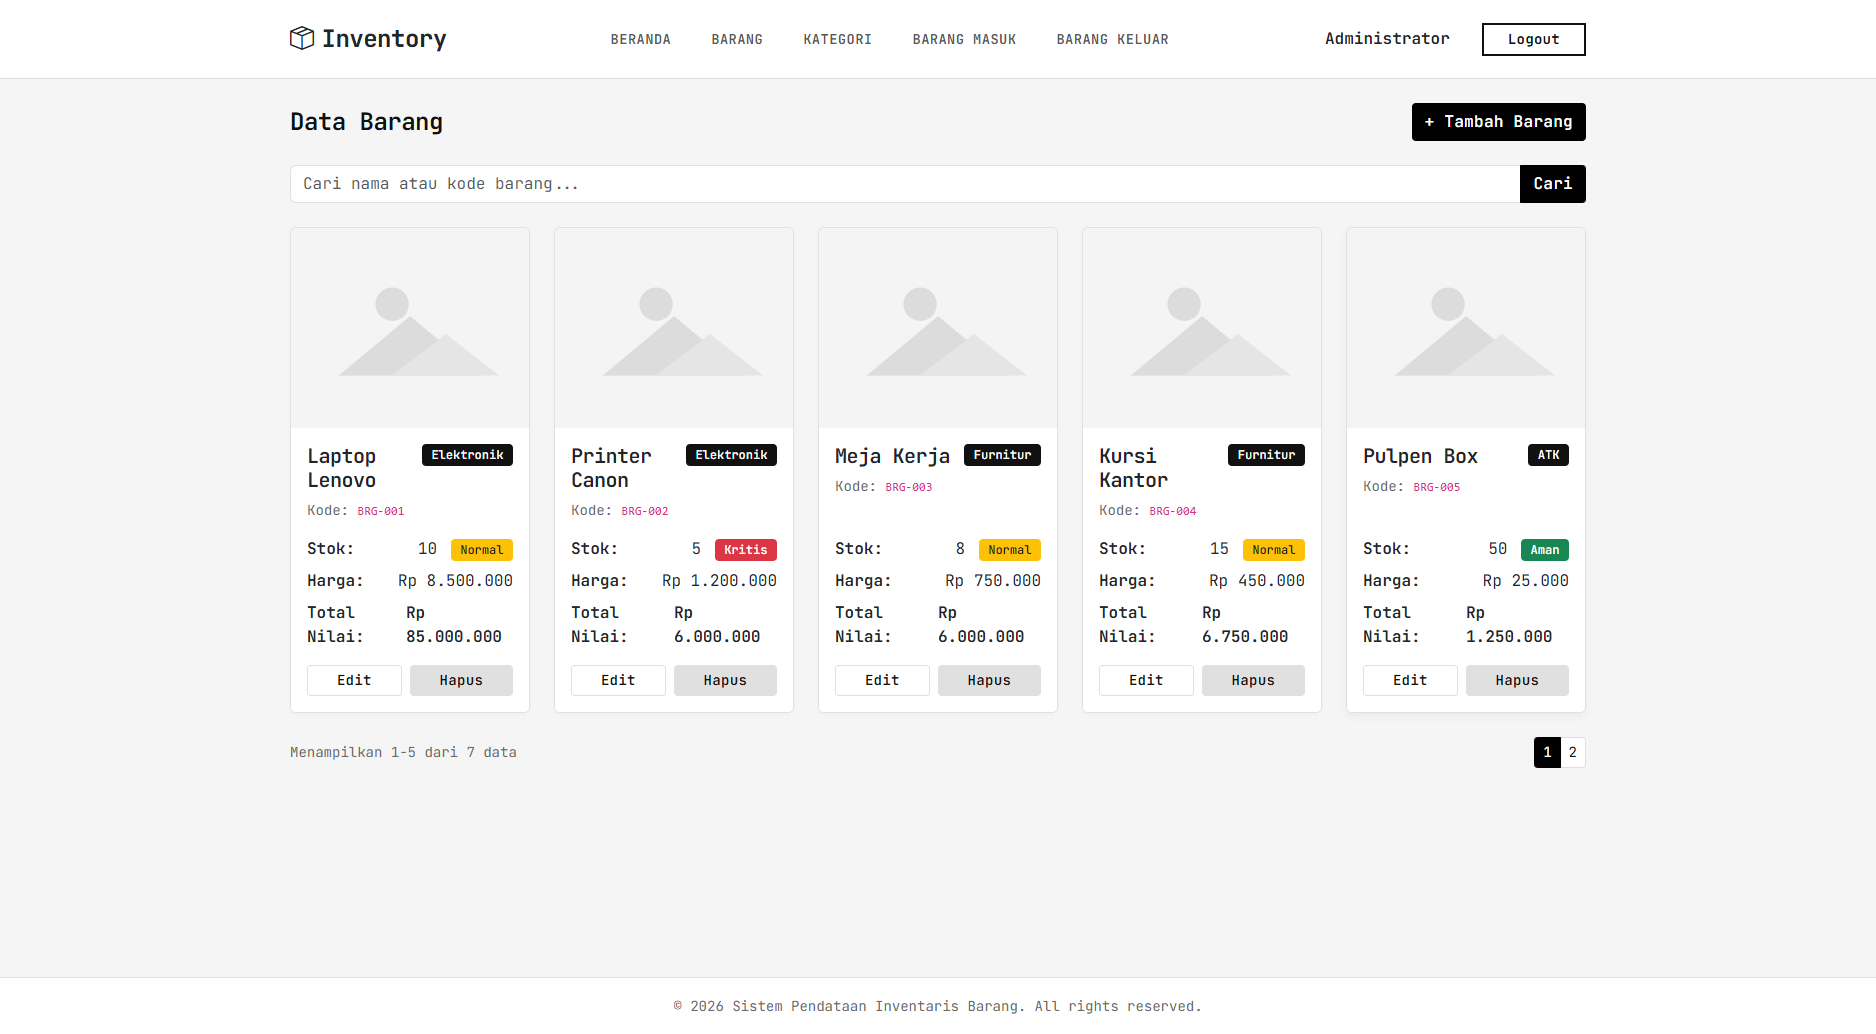
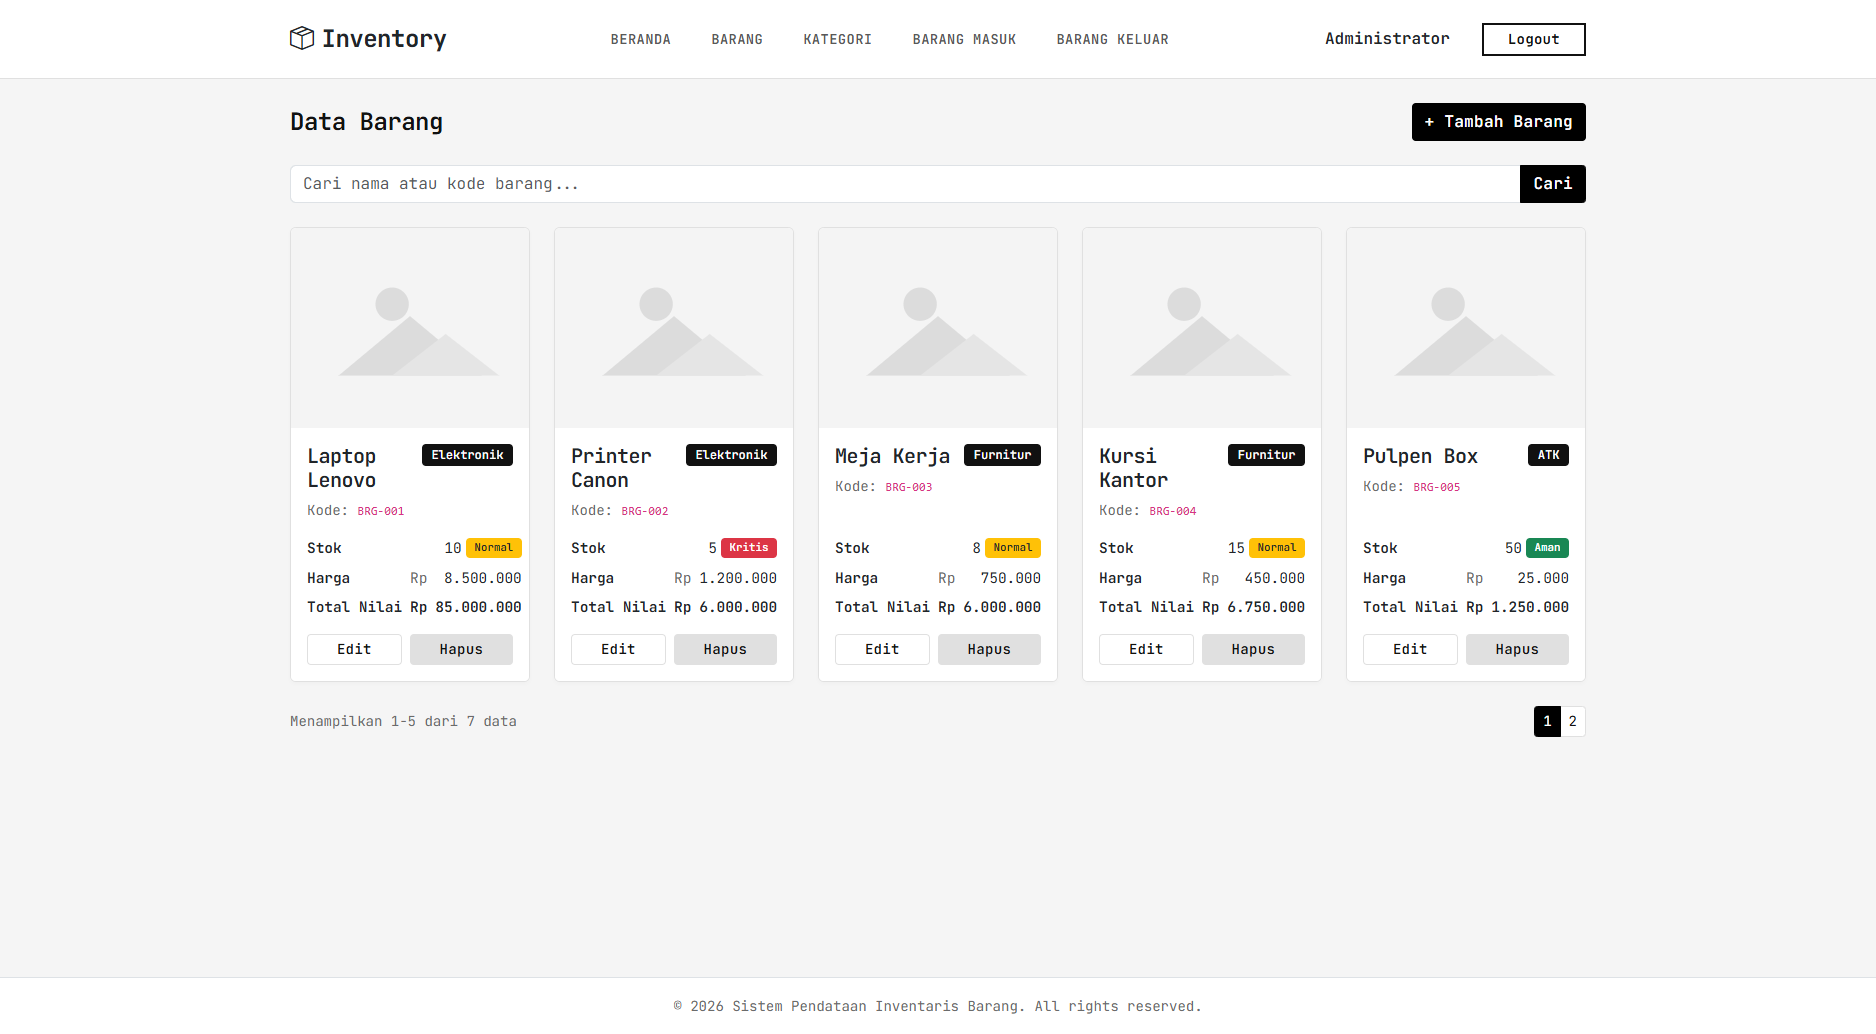
merapikan card

Changed region(s): [[0.5874, 0.5261, 0.8348, 0.7427], [0.3092, 0.5261, 0.5565, 0.6809], [0.1546, 0.5261, 0.2783, 0.7427]]

diff --git a/pages/barang/index.php b/pages/barang/index.php
@@ -103,26 +103,29 @@ $error   = htmlspecialchars($_GET['error'] ?? '');
                         </div>
                         <p class="card-text text-muted small mb-3">Kode: <code><?= htmlspecialchars($row['kode_barang']) ?></code></p>
                         
-                        <div class="mt-auto">
-                            <div class="d-flex justify-content-between align-items-center mb-2">
-                                <span class="fw-semibold">Stok:</span>
-                                <span><?= htmlspecialchars($row['stok']) ?>
-                                    <?php
-                                        $status_color = 'bg-success';
-                                        if ($row['status_stok'] == 'Kritis') $status_color = 'bg-danger';
-                                        elseif ($row['status_stok'] == 'Normal') $status_color = 'bg-warning text-dark';
-                                    ?>
-                                    <span class="badge <?= $status_color ?> ms-1"><?= htmlspecialchars($row['status_stok']) ?></span>
-                                </span>
+                        <div class="mt-auto" style="display: grid; grid-template-columns: auto auto 1fr; row-gap: 0.5rem; column-gap: 0.5rem; font-size: 0.9rem;">
+                            <!-- Stok -->
+                            <div class="fw-semibold text-nowrap d-flex align-items-center">Stok</div>
+                            <div></div>
+                            <div class="text-end d-flex justify-content-end align-items-center">
+                                <?= htmlspecialchars($row['stok']) ?>
+                                <?php
+                                    $status_color = 'bg-success';
+                                    if ($row['status_stok'] == 'Kritis') $status_color = 'bg-danger';
+                                    elseif ($row['status_stok'] == 'Normal') $status_color = 'bg-warning text-dark';
+                                ?>
+                                <span class="badge <?= $status_color ?> ms-1"><?= htmlspecialchars($row['status_stok']) ?></span>
                             </div>
-                            <div class="d-flex justify-content-between align-items-center mb-2">
-                                <span class="fw-semibold">Harga:</span>
-                                <span>Rp <?= number_format($row['harga_barang'], 0, ',', '.') ?></span>
-                            </div>
-                            <div class="d-flex justify-content-between align-items-center">
-                                <span class="fw-semibold">Total Nilai:</span>
-                                <span class="text-dark fw-bold">Rp <?= number_format($row['nilai_inventaris'], 0, ',', '.') ?></span>
-                            </div>
+
+                            <!-- Harga -->
+                            <div class="fw-semibold text-nowrap d-flex align-items-center">Harga</div>
+                            <div class="d-flex align-items-center">Rp</div>
+                            <div class="text-end"><?= number_format($row['harga_barang'], 0, ',', '.') ?></div>
+
+                            <!-- Total Nilai -->
+                            <div class="fw-semibold text-nowrap d-flex align-items-center">Total Nilai</div>
+                            <div class="d-flex align-items-center fw-bold text-dark">Rp</div>
+                            <div class="text-dark fw-bold text-end"><?= number_format($row['nilai_inventaris'], 0, ',', '.') ?></div>
                         </div>
                     </div>
                     <div class="card-footer bg-white border-top-0 d-flex gap-2 p-3 pt-0">

diff --git a/README.md b/README.md
@@ -32,7 +32,7 @@ PHP, MySQL, Bootstrap 5, JavaScript, Laragon
 ![Daftar Barang](screenshot/tambah_barang.png)
 
 ### 3. Form Tambah Barang
-![Form Tambah Barang](screenshot/form_tambah_barang.png)
+![Form Tambah Barang](screenshot/tambah_barang.png)
 
 ### 4. Form Edit Barang
 ![Form Edit Barang](screenshot/form_edit_barang.png)